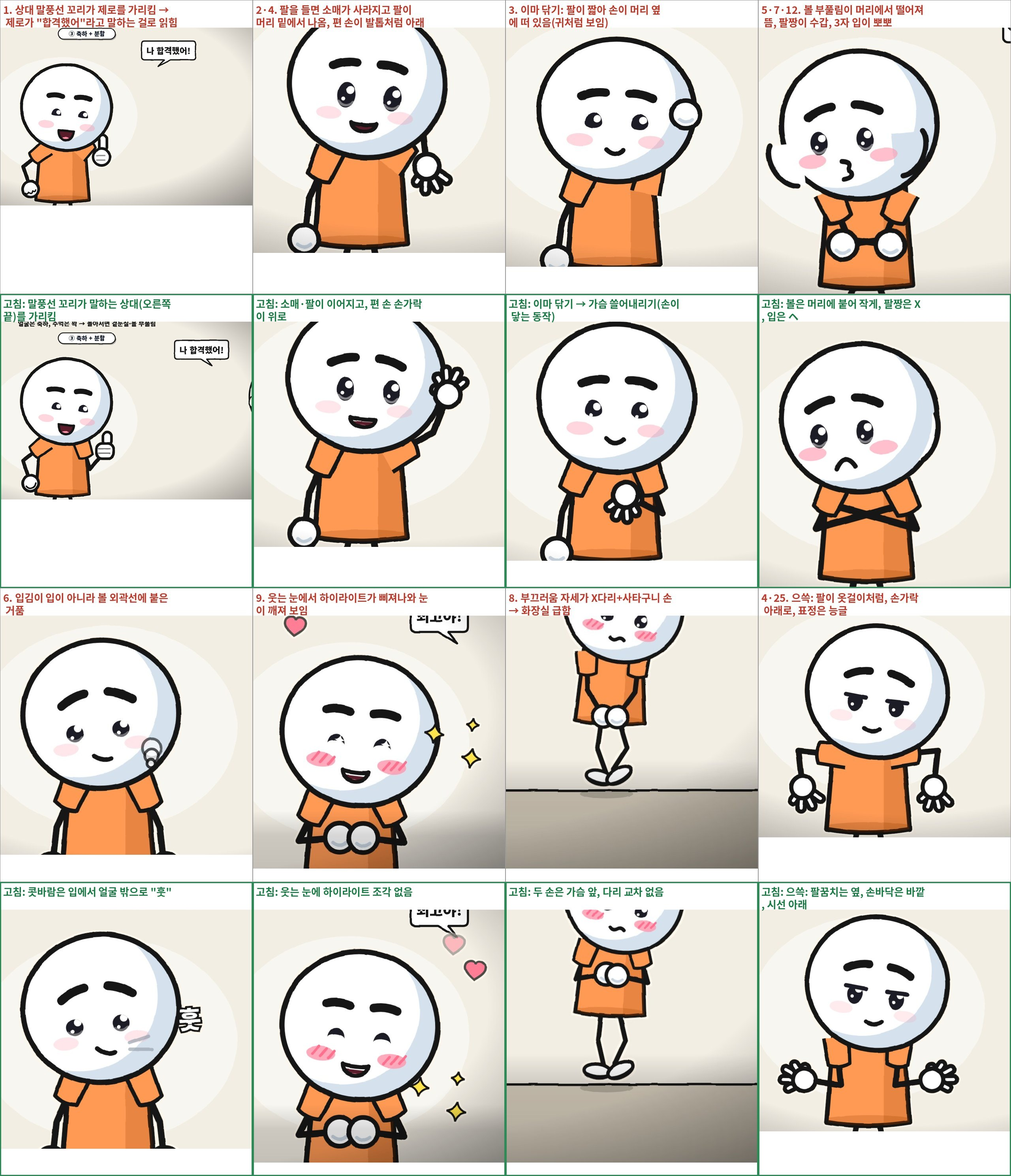
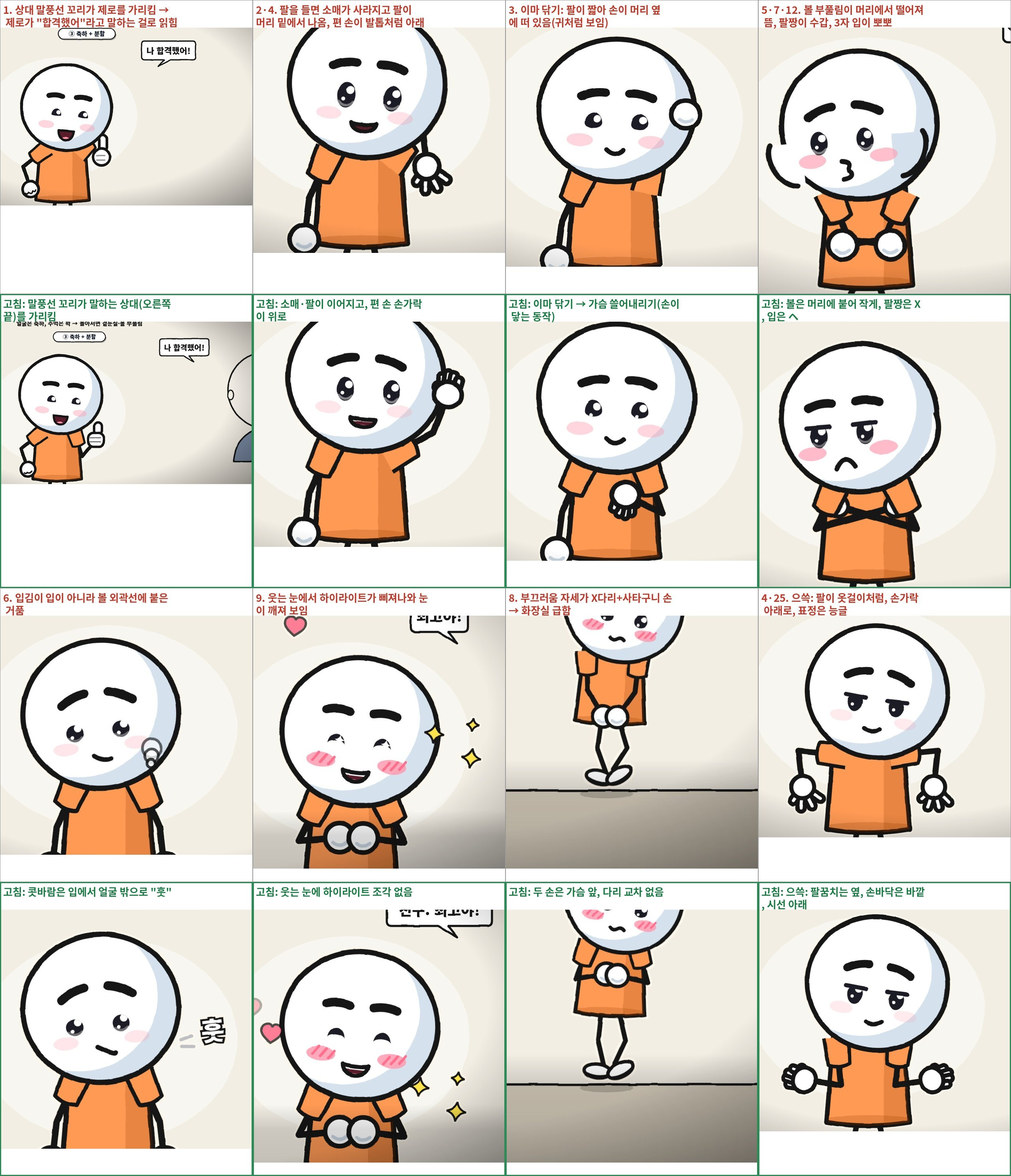
표정·연기 고침 v2: 32개 반영 + 독립 재검토 두 번(팔꿈치 바깥쪽 규칙·blend 굽힘 버그·생각하는 자세·편 손·팔짱 손·코웃음·눈물·집중선 빈 각도), 전후 비교
Claude-Session: https://claude.ai/code/session_01WWWAGrfkk8c3HdrCL88o6T

diff --git a/shorts/act2.js b/shorts/act2.js
@@ -71,7 +71,7 @@ ACT.mouth = (v, o, c = 2, id = 'm', x = {}) => { const [w0, T0, B0, k] = v, w = 
   if (x.style === 'pout') return wrap(`<path d="M186 ${f1(244 + wv * 2)} Q194 230 201 231 Q208 232 214 ${f1(243 - wv * 2)}" fill="none" stroke="${INK}" stroke-width="7" stroke-linecap="round" stroke-linejoin="round"/>`);
   if (x.style === 'kiss') return wrap(`<path d="M196 222 Q209 224 206 231 Q203 236 208 240 Q212 249 196 250" fill="none" stroke="${INK}" stroke-width="7" stroke-linecap="round" stroke-linejoin="round"/>`);
   if (B < 3.2) { if (wob > 0.02) return wrap(`<path d="M${f1(x0)} ${f1(yL)} Q${f1(200 - w / 2)} ${f1(y0 + 3 + cm * 0.9 + 5 * wv)} 200 ${f1(y0 + 2 + cm * 0.5)} Q${f1(200 + w / 2)} ${f1(y0 + 3 + cm * 0.9 - 5 * wv)} ${f1(x1)} ${f1(yR)}" fill="none" stroke="${INK}" stroke-width="7" stroke-linecap="round" stroke-linejoin="round"/>`);
-    return wrap(`<path d="M${f1(x0)} ${f1(yL)} Q200 ${f1(y0 + 5 + cm * 0.9)} ${f1(x1)} ${f1(yR)}" fill="none" stroke="${INK}" stroke-width="7" stroke-linecap="round"/>`); }
+    return wrap(`<path d="M${f1(x0)} ${f1(yL)} Q${f1(200 + (cL - cR) * 1.2)} ${f1(y0 + 5 + cm * 0.9)} ${f1(x1)} ${f1(yR)}" fill="none" stroke="${INK}" stroke-width="7" stroke-linecap="round"/>`); }
   const hT = T * 4 / 3, hB = (B + 3 * wv) * 4 / 3, d = `M${f1(x0)} ${f1(yL)} C${f1(200 - w * k)} ${f1(y0 - hT)} ${f1(200 + w * k)} ${f1(y0 - hT)} ${f1(x1)} ${f1(yR)} C${f1(200 + w * k)} ${f1(y0 + hB)} ${f1(200 - w * k)} ${f1(y0 + hB)} ${f1(x0)} ${f1(yL)} Z`;
   let g = `<clipPath id="${id}"><path d="${d}"/></clipPath><path d="${d}" fill="${MO2}"/><g clip-path="url(#${id})">`;
   if (B > 9) g += `<ellipse cx="200" cy="${f1(y0 + B * 0.95)}" rx="${f1(w * 0.62)}" ry="${f1(B * 0.42)}" fill="${TONG2}"/>`;
@@ -135,14 +135,14 @@ ACT.face = o => { const base = E[o.base || 'z기본'] || E['z기본'], br = ACT.
   const pf = o.puff ? ACT.cheekPuff(o.puff[0], o.puff[1], o.turn || 0) : '', kn = (o.brow && o.brow.knit) || 0;
   const wr = ''; // 미간 주름 선은 얼룩처럼 보여 뺐다(눈썹 모양만으로 찌푸림)
   const tdy = ACT.eyeBottom(o.eyes) + 3 - 210; // 눈물은 아래 눈꺼풀에서 시작
-  const tear = o.tear > 0.05 ? (t, lk) => `<g opacity="${f1(clamp(o.tear, 0, 1) * 100) / 100}" transform="translate(0 ${f1(tdy)})">${zTear(t, lk, -1, 0, 0.95)}${zTear(t, lk, 1, 0.45, 0.95)}</g>` : null;
+  const tear = o.tear > 0.05 ? (t, lk) => `<clipPath id="tc${o.id || 'a'}"><ellipse cx="200" cy="170" rx="116" ry="110"/></clipPath><g clip-path="url(#tc${o.id || 'a'})"><g opacity="${f1(clamp(o.tear, 0, 1) * 100) / 100}" transform="translate(0 ${f1(tdy)})">${zTear(t, lk, -1, 0, 0.95)}${zTear(t, lk, 1, 0.45, 0.95)}</g></g>` : null;
   return Object.assign({}, br, { eyeL: 'M0 0', eyeR: 'M0 0', eyeFill: 'none', eyeSW: 0, mouth: base.mouth, mouthFill: base.mouthFill,
     fxHead: (t, lk) => pf + (typeof o.hfx === 'function' ? o.hfx(t, lk) : (o.hfx || '')), fxUnder: fxU, fxEye: ACT.eyes(Object.assign({ id: o.id }, o.eyes || {})), fx: (t, lk) => wr + m + lines + (tear ? tear(t, lk) : '') + (typeof o.fx === 'function' ? o.fx(t, lk) : (o.fx || '')) }); };
 
 // ---------- 만화 기호(머리 좌표, 머리 중심 200,170 / 반지름 약 118) ----------
 // 등장: 튀어나와 커졌다 안착, 머무는 동안 살짝 흔들림, 끝: 작아지며 사라짐
 ACT.symK = (t, t0, t1) => { if (t < t0 || t > t1 + 0.18) return 0; const a = clamp((t - t0) / 0.28, 0, 1), inn = a < 1 ? easeOutBack(a) : 1, out = t > t1 ? 1 - (t - t1) / 0.18 : 1; return inn * out; };
-ACT.sym = (kind, x, y, t, t0, t1, s = 1) => { const k = ACT.symK(t, t0, t1); if (k <= 0.01) return ''; const wob = Math.sin((t - t0) * 9) * 6 * Math.exp(-(t - t0) * 2.5);
+ACT.sym = (kind, x, y, t, t0, t1, s = 1) => { const k = ACT.symK(t, t0, t1); if (k <= 0.01) return ''; const wob = kind === 'huff' || kind === 'hut' ? 0 : Math.sin((t - t0) * 9) * 6 * Math.exp(-(t - t0) * 2.5);
   let g = '';
   if (kind === '!') g = `<path d="M-9 -58 L9 -58 L5 2 L-5 2 Z" fill="#FF5A5F" stroke="${INK}" stroke-width="6" stroke-linejoin="round"/><circle cy="20" r="9" fill="#FF5A5F" stroke="${INK}" stroke-width="6"/>`;
   else if (kind === '?') g = `<text x="0" y="22" text-anchor="middle" font-family="${FONT}" font-weight="900" font-size="104" fill="#fff" stroke="${INK}" stroke-width="10" paint-order="stroke">?</text>`;
@@ -152,16 +152,17 @@ ACT.sym = (kind, x, y, t, t0, t1, s = 1) => { const k = ACT.symK(t, t0, t1); if 
   else if (kind === 'spark') g = [[-30, -10, 0], [26, -30, 1.7], [30, 20, 3.1]].map(([dx, dy, p]) => zStar(dx, dy, 15 * (0.55 + 0.45 * Math.abs(Math.sin((t - t0) * 6 + p))), '#FFE34D', 3)).join('');
   else if (kind === 'heart') g = [0, 1].map(i => { const ph = ((t - t0) * 0.9 + i * 0.5) % 1; return `<path d="${zHeartP(i * 30 - 15 + Math.sin(ph * 6) * 6, -ph * 70, 0.42)}" fill="#FF6B8B" stroke="${INK}" stroke-width="3.5" opacity="${f1((1 - ph * 0.8) * 100) / 100}"/>`; }).join('');
   else if (kind === 'dots') g = [0, 1, 2].map(i => { const kk = clamp(((t - t0) - i * 0.25) / 0.2, 0, 1); return kk > 0 ? `<circle cx="${(i - 1) * 26}" cy="${f1(-i * 12)}" r="${f1(8 * easeOutBack(kk))}" fill="#fff" stroke="${INK}" stroke-width="4"/>` : ''; }).join('');
-  else if (kind === 'burst') g = [...Array(10)].map((_, i) => { const a = i / 10 * Math.PI * 2; return `<line x1="${f1(Math.cos(a) * 128)}" y1="${f1(Math.sin(a) * 120)}" x2="${f1(Math.cos(a) * 158)}" y2="${f1(Math.sin(a) * 148)}" stroke="${INK}" stroke-width="7" stroke-linecap="round"/>`; }).join('');
+  else if (kind === 'burst') g = [...Array(10)].map((_, i) => { const a = i / 10 * Math.PI * 2; if (y > 0 && Math.abs(((a * 180 / Math.PI - x + 540) % 360) - 180) < y) return ''; return `<line x1="${f1(Math.cos(a) * 128)}" y1="${f1(Math.sin(a) * 120)}" x2="${f1(Math.cos(a) * 158)}" y2="${f1(Math.sin(a) * 148)}" stroke="${INK}" stroke-width="7" stroke-linecap="round"/>`; }).join('');
   else if (kind === 'gloom') g = `<g opacity=".75">${zGloom}</g>`;
   // 한숨: (x,y)=입 끝. 입김이 입에서 나와 얼굴 아래 바깥으로 빠져나간다(얼굴 위에서는 옅게). "후~" 글자
   else if (kind === 'sigh') { const u = clamp((t - t0) / Math.max(0.3, t1 - t0), 0, 1);
     g = [0, 1, 2].map(i => { const uu = clamp(u * 1.25 - i * 0.14, 0, 1); if (uu <= 0) return ''; const px = uu * 105, py = uu * 34 + uu * uu * 14, onFace = px < 55 ? 0.55 : 1;
       return `<circle cx="${f1(px)}" cy="${f1(py)}" r="${f1(5 + uu * 15 - i * 2)}" fill="#fff" stroke="#9AA4B0" stroke-width="3.5" opacity="${f1((1 - uu * 0.8) * onFace * 100) / 100}"/>`; }).join('') +
-      (u > 0.35 ? `<text x="${f1(96 + u * 20)}" y="${f1(46 + u * 10)}" font-family="${FONT}" font-weight="900" font-size="34" fill="#fff" stroke="${INK}" stroke-width="6" paint-order="stroke" opacity="${f1(Math.min(1, (u - 0.35) * 4) * (1 - u * 0.5) * 100) / 100}">후~</text>` : ''); }
+      (u > 0.15 ? `<text x="${f1(96 + u * 20)}" y="${f1(46 + u * 10)}" font-family="${FONT}" font-weight="900" font-size="34" fill="#fff" stroke="${INK}" stroke-width="6" paint-order="stroke" opacity="${f1(Math.min(1, (u - 0.15) * 5) * (1 - u * 0.4) * 100) / 100}">후~</text>` : ''); }
   // 코웃음: (x,y)=올라간 입꼬리. 짧은 콧바람 두 줄 + "흥"
-  else if (kind === 'huff' || kind === 'hut') { const u = clamp((t - t0) / 0.5, 0, 1); g = `<path d="M${f1(8 + u * 14)} -6 l${f1(22 + u * 14)} -8 M${f1(8 + u * 14)} 4 l${f1(26 + u * 14)} 2" stroke="#9AA4B0" stroke-width="5" stroke-linecap="round" opacity="${f1((1 - u * 0.6) * 100) / 100}"/>` +
-    `<text x="${f1((84 + u * 12) * (s < 0 ? -1 : 1))}" y="-22" font-family="${FONT}" font-weight="900" font-size="36" fill="#fff" stroke="${INK}" stroke-width="6" paint-order="stroke"${s < 0 ? ' transform="scale(-1 1)" text-anchor="end"' : ''}>${kind === 'hut' ? '훗' : '흥'}</text>`; }
+  else if (kind === 'huff' || kind === 'hut') { const u = clamp((t - t0) / 0.5, 0, 1), sx = s < 0 ? -1 : 1; // 글자만, 얼굴 밖에. 콧바람 선은 볼 위 흉터처럼 보여 뺐다
+    g = `<path d="M${f1(92 * sx)} -2 l${f1(16 * sx)} -4 M${f1(92 * sx)} 8 l${f1(18 * sx)} 2" stroke="#9AA4B0" stroke-width="5" stroke-linecap="round" opacity="${f1((1 - u * 0.6) * 100) / 100}"/>` +
+      `<text x="${f1((118 + u * 10) * sx)}" y="4" text-anchor="${s < 0 ? 'end' : 'start'}" font-family="${FONT}" font-weight="900" font-size="38" fill="#fff" stroke="${INK}" stroke-width="6" paint-order="stroke">${kind === 'hut' ? '훗' : '흥'}</text>`; }
   else if (kind === 'storm') { const z = Math.sin((t - t0) * 5) * 3; g = `<g transform="translate(${f1(z)} 0)"><circle cx="-26" cy="0" r="22" fill="#6B6B8F" stroke="${INK}" stroke-width="5"/><circle cx="2" cy="-12" r="27" fill="#6B6B8F" stroke="${INK}" stroke-width="5"/><circle cx="30" cy="2" r="20" fill="#6B6B8F" stroke="${INK}" stroke-width="5"/><rect x="-30" y="0" width="64" height="20" fill="#6B6B8F"/><path d="M-36 20 L40 20" stroke="${INK}" stroke-width="5" stroke-linecap="round"/>` +
     ((t - t0) % 0.9 < 0.25 ? `<path d="M2 22 L-8 42 L4 42 L-6 64" fill="none" stroke="#FFD43B" stroke-width="7" stroke-linecap="round" stroke-linejoin="round"/>` : '') + `</g>`; }
   else if (kind === 'memory') g = [[78, 62, 7], [60, 42, 10]].map(([dx, dy, r]) => `<circle cx="${dx}" cy="${dy}" r="${r}" fill="#FFF8E7" stroke="${INK}" stroke-width="4"/>`).join('') +
@@ -172,7 +173,7 @@ ACT.sym = (kind, x, y, t, t0, t1, s = 1) => { const k = ACT.symK(t, t0, t1); if 
   if (kind === 'gloom' || kind === 'burst') return `<g opacity="${f1(clamp(k, 0, 1) * 100) / 100}">${kind === 'burst' ? `<g transform="translate(200 170) scale(${f1((0.9 + 0.1 * k) * 100) / 100})">${g}</g>` : g}</g>`;
   const op = t > t1 ? clamp(1 - (t - t1) / 0.18, 0, 1) : 1; // 끝날 때 작아지면서 옅어진다(점처럼 남지 않게)
   // s < 0 이면 좌우를 뒤집는다(왼쪽을 보는 얼굴의 입김·콧바람)
-  return `<g transform="translate(${f1(x)} ${f1(y)}) rotate(${f1(wob)}) scale(${f1(k * (s < 0 ? -1 : 1) * 100) / 100} ${f1(k * 100) / 100})"${op < 1 ? ` opacity="${f1(op * 100) / 100}"` : ''}>${g}</g>`; };
+  return `<g transform="translate(${f1(x)} ${f1(y)}) rotate(${f1(wob)}) scale(${f1(k * (s < 0 && kind !== 'huff' && kind !== 'hut' ? -1 : 1) * 100) / 100} ${f1(k * 100) / 100})"${op < 1 ? ` opacity="${f1(op * 100) / 100}"` : ''}>${g}</g>`; };
 
 // ---------- 감정 몸짓(A2.pose 기반) ----------
 // 반환 { pose, rot, tilt, headDy, sx, sy, look, hop } — k(0~1)로 서기에서 섞어 들어간다

diff --git a/animlab/long/actscenes.js b/animlab/long/actscenes.js
@@ -30,13 +30,13 @@ function act1Scene(t, lt, a) {
   tr.forEach((s, i) => { if (s.first) { nod += ACT.pulse(t, s.a - 0.05, 0.28); bro += ACT.pulse(t, s.a - 0.07, 0.32); }
     if (s.q) { const nx = tr.slice(i + 1).find(z => z.first), qe = nx ? nx.a - 0.08 : 99; q = Math.max(q, A2.spring(t, s.a - 0.05, 1.7, 0.38) * (t < qe ? 1 : Math.exp(-(t - qe) * 5))); } });
   const LK = [[0, [0, 0.15]], [0.35, [0.62, 0.05]], [2.0, [0.15, 0.45]], [2.75, [0.64, 0.0]]], look = ACT.saccade(lt, LK, 0.06, 3);
-  const sp = ACT.pulse(lt, 0.5, 0.75), worry = clamp((lt - 3.6) / 0.4, 0, 1) * 0.45, after = lt > 4.95;
+  const sp = ACT.pulse(lt, 0.42, 0.7), worry = clamp((lt - 3.6) / 0.4, 0, 1) * 0.45, after = lt > 4.95;
   const bl = Math.max(ACT.blinks(lt, ACT.saccadeBlinks(LK, 0.5).concat([1.78, 3.62]), 0.17), ACT.blinks(lt, [5.45], 0.42));
   const mouth = lp.s ? { v: lp.v, o: lp.o, c: 1.5 } : { v: ACT.VIS.M, o: 0, c: after ? 3.5 : 2 };
   const st = A2.pose({}), g = A2.actK(lt, 2.8, 0.32, { anticAmt: 0.15 }) * (1 - A2.actK(lt, 4.4, 0.45, { antic: 0.05, anticAmt: 0, over: 0 }));
-  const pose = A2.blend(st, A2.pose({ hR: [322, 304] }), clamp(g, -0.2, 1.15), 0.3);
+  const pose = A2.blend(st, A2.pose({ hR: [306, 352], bend: { aR: 1 } }), clamp(g, -0.2, 1.15), 0.3);
   w += acZ('_a1R', { eyes: { open: 1 - bl, size: 1 + 0.24 * sp, squint: after ? 0.25 : 0.05 }, brow: { raise: bro * 4 + q * 9 + sp * 12, worry }, mouth: !lp.s && sp > 0.25 ? { v: ACT.VIS.O, o: 0.45 * sp } : mouth, blush: 0.4,
-    fx: tt => ACT.sym('?', 330, 30, lt, 5.05, 9) }, { x: AC.XR, y: AC.CY, s: AC.CS, t, pose, look, tilt: q * 8 - nod * 1.5, headDy: nod * 5, headSq: [1 - 0.03 * sp, 1 + 0.05 * sp], handR: g > 0.3 ? 'open' : null, handRotR: -55, turn: 0.25 });
+    fx: tt => ACT.sym('?', 330, 30, lt, 5.05, 9) }, { x: AC.XR, y: AC.CY, s: AC.CS, t, pose, look, tilt: q * 8 - nod * 1.5, headDy: nod * 5, headSq: [1 - 0.03 * sp, 1 + 0.05 * sp], handR: g > 0.3 ? 'open' : null, handRotR: -12, turn: 0.25 });
   return w;
 }
 
@@ -52,15 +52,15 @@ function act2Scene(t, lt, a) {
   const bl = Math.max(ACT.blinks(lt, ACT.saccadeBlinks(LK, 0.9), 0.17), squeeze, ACT.natBlink(lt, 4) * (lt > 3.9 ? 1 : 0));
   const tilt = A2.follow(tt => ACT.saccade(tt, LK, 0.06, 5)[0] * -7 * (tt > 0.7 && tt < idea ? 1 : 0), lt, 2.2, 0.4, 0.8, 18);
   const turn = A2.follow(tt => ACT.saccade(tt, LK, 0.06, 5)[0] * 0.55, lt, 2.6, 0.45, 0.8, 18);
-  // 생각하는 자세: 오른손은 턱, 왼손은 오른 팔꿈치를 받침
-  const st = A2.pose({}), chin = A2.pose({ hR: [226, 288], hL: [236, 374], dy: 3, reach: { R: 1.15 }, bend: { aR: -1 } }), up = A2.pose({ hR: [326, 214], hL: [150, 412], dy: 0, bend: { aR: 1 } });
+  // 생각하는 자세(🤔): 오른손은 턱, 오른 팔꿈치는 배 앞을 가로지른 왼팔 위에 얹는다
+  const st = A2.pose({}), chin = A2.pose({ hR: [226, 290], elbowR: [246, 372], hL: [258, 384], elbowL: [126, 360], dy: 3 }), up = A2.pose({ hR: [326, 214], hL: [150, 412], dy: 0, bend: { aR: 1 } });
   let pose = A2.blend(st, chin, th, 0.2);
   if (on) pose = A2.blend(chin, up, clamp(A2.actK(lt, idea + 0.02, 0.22, { antic: 0.06, anticAmt: 0.15, over: 0.12 }), -0.2, 1.15), 0.3);
-  else if (squeeze > 0) pose = A2.pose({ hR: [226, 288], hL: [236, 374], dy: 3 + 8 * squeeze, reach: { R: 1.15 }, bend: { aR: -1 } });
+  else if (squeeze > 0) pose = A2.pose({ hR: [226, 290], elbowR: [246, 372], hL: [258, 384], elbowL: [126, 360], dy: 3 + 8 * squeeze });
   const mouth = on ? (lt < idea + 0.3 ? { v: ACT.VIS.O, o: 0.95, c: 0 } : { v: ACT.VIS.E, o: 0.55, c: 5 }) : { v: ACT.VIS.U, o: 0.42 * th, c: -1 };
   w += acZ('_a2R', { eyes: { squeeze: squeeze > 0.35 ? 1 : 0, open: 1 - bl, size: 1 + 0.13 * p, squint: on ? 0.1 : 0.25 * th + 0.6 * squeeze, sparkle: on ? clamp(p, 0, 1) * (0.35 + 0.65 * Math.exp(-(lt - idea) * 2)) : 0 },
     brow: { raise: on ? 12 * p : 0, asymL: 7 * th, asymR: -4 * th, angry: 0.18 * th + 0.5 * squeeze }, mouth, blush: on ? 0.6 : 0.35,
-    fx: tt => ACT.sym('dots', 300, 18, lt, 1.0, idea - 0.15) + ACT.sym('bulb', 330, 44, lt, idea + 0.05, 99), hfx: tt => ACT.sym('burst', 0, 0, lt, idea, idea + 0.35) },
+    fx: tt => ACT.sym('dots', 300, 18, lt, 1.0, idea - 0.15) + ACT.sym('bulb', 330, 44, lt, idea + 0.05, 99), hfx: tt => ACT.sym('burst', 10, 40, lt, idea, idea + 0.35) },
     { x: AC.XR, y: AC.CY, s: AC.CS, t, pose, look, tilt: tilt - 3 * th, turn, headDy: 5 * squeeze - 4 * pu, headSq: [1 - 0.05 * pu, 1 + 0.08 * pu], handR: on ? 'point' : (th > 0.4 ? 'fist' : null), handRotR: on ? -90 : null, armFront: !on && th > 0.4 ? 'R' : null });
   return w;
 }
@@ -68,7 +68,7 @@ function act2Scene(t, lt, a) {
 /* 3. 표정 전환: 칭찬받았을 때 */
 function act3Scene(t, lt, a) {
   let w = acBg('칭찬받았을 때 — 눈썹 → 웃는 눈 → 입꼬리 → 입 → 볼 순서로 번진다');
-  w += acBubble(AC.XL + 300, 290, '최고야!', lt, 0.6, 99, 1) + acBubble(AC.XR + 300, 290, '최고야!', lt, 0.6, 99, 1);
+  w += acBubble(AC.XL + 300, 290, '친구: 최고야!', lt, 0.6, 99, 1) + acBubble(AC.XR + 300, 290, '친구: 최고야!', lt, 0.6, 99, 1);
   w += Z({ x: AC.XL, y: AC.CY, s: AC.CS, t, ex: exprAt([[0, 'z기본'], [1.0, 'z빵긋']], lt), look: lt > 0.65 ? [0.6, -0.3] : [0, 0] });
   const LK = [[0, [0, 0.1]], [0.65, [0.7, -0.35]], [1.45, [0.15, -0.05]]], look = ACT.saccade(lt, LK, 0.06, 7);
   const bl = Math.max(ACT.blinks(lt, [0.76, 0.98], 0.15), lt > 3.9 && lt < 4.8 ? 1 : 0, ACT.blinkK(lt, 4.8, 0.25) * 0 + (lt > 4.8 && lt < 4.95 ? 1 - prog(lt, 4.8, 4.95) : 0));
@@ -95,7 +95,7 @@ function act4Scene(t, lt, a) {
   // 오른쪽
   const hum = lt < 1.5, LK = [[0, [0, 0]], [0.95, [0.85, 0.05]], [1.15, [0, -0.1]], [tp, [1, 0]], [3.3, [0.05, 0.1]]], look = ACT.saccade(lt, LK, lt > tp - 0.05 && lt < tp + 0.2 ? 0.03 : 0.07, 9);
   const closed = (lt < 0.85 || (lt > 1.25 && lt < 1.5)) ? 1 : 0, beat = lt >= 1.5 && lt < tp;
-  const p = ACT.pop(lt, tp, 2.6, 0.3), pu = ACT.pulse(lt, tp, 0.4);
+  const p = ACT.pop(lt, tp, 2.6, 0.3), pu = ACT.pulse(lt, tp, 0.26);
   const crouch = lt > tp - 0.14 && lt < tp ? Math.sin(prog(lt, tp - 0.14, tp) * Math.PI / 2) : 0, air = lt >= tp && lt < tp + 0.38, u = prog(lt, tp, tp + 0.38);
   const yJ = air ? Math.sin(u * Math.PI) * 60 : 0, [qx, qy] = A2.squash(lt, tp + 0.38, 0.16, 0.3);
   const sx = qx * (air ? 1 / Math.sqrt(1 + 0.1 * Math.sin(u * Math.PI)) : 1), sy = qy * (air ? 1 + 0.1 * Math.sin(u * Math.PI) : 1);
@@ -105,11 +105,11 @@ function act4Scene(t, lt, a) {
   const turn = lerp(0, 0.9, A2.spring(lt, tp, 2.8, 0.4)) * (1 - A2.spring(lt, 3.3, 1.8, 0.6));
   const sway = hum ? Math.sin(lt * 3.2) : 0, shiver = lt > 2.4 && lt < 3.1;
   const eyesO = { open: closed ? 0 : 1 - ACT.blinks(lt, [3.25], 0.17), squint: closed ? 0.7 : (lt < 1.5 ? 0.35 : 0), size: lt >= tp ? 1 + 0.3 * p - 0.18 * clamp((lt - 2.4) / 0.6, 0, 1) : (beat ? 1.2 : 1) };
-  const mouth = hum ? { v: ACT.VIS.U, o: 0.45, c: 1 } : beat ? { v: ACT.VIS.M, o: 0, c: 0 } : lt < 2.4 ? { v: ACT.VIS.A, o: 1, c: -3 } : lt < 3.3 ? null : { v: ACT.VIS.E, o: 0.45, c: [-1, 2.5], wob: 0.3 };
+  const mouth = hum ? { v: ACT.VIS.U, o: 0.45, c: 1 } : beat ? null : lt < 2.4 ? { v: ACT.VIS.A, o: 1, c: -3 } : lt < 3.3 ? null : { v: ACT.VIS.E, o: 0.45, c: [-1, 2.5], wob: 0.3 };
   w += acShadow(AC.XR, yl, 70 * (1 - yJ / 300)) + `<g transform="translate(${AC.XR} ${yl}) scale(${f1(sx * 1000) / 1000} ${f1(sy * 1000) / 1000}) translate(${-AC.XR} ${-yl})">` +
-    acZ('_a4R', { base: lt >= 2.4 ? 'z당황' : 'z기본', eyes: eyesO, brow: { raise: beat ? 9 : lt >= tp ? 10 * p * (lt < 2.4 ? 1 : 0.4) : 0, worry: lt >= 3.3 ? 0.6 : lt >= 2.4 ? 0.9 : 0 }, mouth, blush: lt >= 2.4 ? 0.2 : 0.4,
+    acZ('_a4R', { mouthPath: beat ? 'M188 238 L212 238' : null, base: lt >= 2.4 ? 'z당황' : 'z기본', eyes: eyesO, brow: { raise: beat ? 9 : lt >= tp ? 10 * p * (lt < 2.4 ? 1 : 0.4) : 0, worry: lt >= 3.3 ? 0.6 : lt >= 2.4 ? 0.9 : 0 }, mouth, blush: lt >= 2.4 ? 0.2 : 0.4,
       fx: tt => ACT.sym('note', 330, 40, lt, 0.1, 1.45), hfx: tt => ACT.sym('!', 338, 70, lt, tp + 0.02, 3.1) + ACT.sym('burst', 0, 0, lt, tp, tp + 0.4) + ACT.sym('sweat', 280, 100, lt, 2.35, 99) },
-      { x: AC.XR, y: yl - yJ, s: AC.FS, t, pose, look, rot: sway * 3, tilt: sway * 5 + (lt >= tp && lt < 2.4 ? -4 : 0), turn, headSq: [1 - 0.08 * pu, 1 + 0.14 * pu], headDy: crouch * 6, shiver, handL: null, handR: null }) + `</g>`;
+      { x: AC.XR, y: yl - yJ, s: AC.FS, t, pose, look, rot: sway * 3, tilt: sway * 5 + (lt >= tp && lt < 2.4 ? -4 : 0), turn, headSq: [1 - 0.05 * pu, 1 + 0.08 * pu], headDy: crouch * 6, shiver, handL: null, handR: null }) + `</g>`;
   if (lt > tp + 0.38 && lt < tp + 0.75) w += puff(AC.XR, yl, t, t - lt + tp + 0.38, 0.8);
   return w;
 }

diff --git a/animlab/long/cxscenes.js b/animlab/long/cxscenes.js
@@ -46,7 +46,7 @@ function cx2Scene(t, lt) {
   const sm = easeInOut(prog(lt, 0.9, 1.45)), hu = ACT.pulse(lt, 1.75, 0.35);
   const bl = Math.max(ACT.blinks(lt, ACT.saccadeBlinks(LK, 0.5), 0.17), ACT.blinks(lt, [2.55], 0.45));
   w += cxZ('_c2', { t: lt, eyes: { open: (0.9 - 0.08 * sm) * (1 - bl), squint: 0.18 * sm, wet: 0.35 * sm }, brow: { worry: lerp(0.2, 0.85, easeInOut(prog(lt, 0.6, 1.2))) },
-    mouth: { v: ACT.VIS.M, o: 0, c: [lerp(1, 6, sm), lerp(1, -2.5, sm)], dx: 5 * sm }, blush: 0.3,
+    mouth: { v: ACT.VIS.M, o: 0, c: [lerp(1, 8, sm), lerp(1, -3, sm)], dx: 6 * sm }, blush: 0.3,
     fx: tt => ACT.sym('hut', 226, 232, lt, 1.75, 2.5) },
     { t, look, tilt: -6 * sm, headDy: 5 * hu, turn: -0.15 * sm });
   return w;
@@ -59,7 +59,7 @@ function cx3Scene(t, lt) {
   const LK = [[0, [0, 0.1]], [0.5, [0.75, -0.1]], [2.15, [0.98, 0.12]]], look = ACT.saccade(lt, LK, 0.06, 23);
   const sh = Math.sin(lt * 42) * 3 * (lt > 0.9 ? 1 : 0), turn = after ? 0.35 * dk : 0.2;
   const pose = A2.pose({ hL: lt > 0.9 ? [118 + sh, 384] : [150, 412], hR: cg ? [312, 300] : after ? [282 + sh, 384] : [252, 412] });
-  const face = after ? { turn, eyes: { flat: 0.45 * dk, size: 0.97, open: 1 - ACT.blinks(lt, [3.4], 0.2) }, brow: { angry: 0.38 * dk, knit: 0.45 * dk }, puff: [0.85 * pf, 0.85 * pf], mouth: { style: 'pout', dx: -4 }, blush: 0.55 }
+  const face = after ? { turn, eyes: { flat: 0.45 * dk, size: 0.97, open: 1 - ACT.blinks(lt, [3.4], 0.2) }, brow: { angry: 0.38 * dk, knit: 0.45 * dk }, puff: [0.6 * pf, 0.6 * pf], mouth: { style: 'pout', dx: -4 }, blush: 0.55 }
     : { eyes: { squint: cg ? 0.55 : 0, open: 1 - ACT.blinks(lt, [0.48], 0.15) }, brow: { raise: cg ? 5 : 0 }, mouth: cg ? { v: ACT.VIS.A, o: 0.7, c: 5 } : { v: ACT.VIS.M, o: 0, c: 2 }, blush: 0.5 };
   w += cxZ('_c3', Object.assign({ t: lt, fx: tt => ACT.sym('vein', 266, 98, lt, 1.3, 2.1), hfx: tt => ACT.sym('storm', 352, 74, lt, 2.5, 99) }, face),
     { t, pose, look, handL: lt > 0.9 ? 'fist' : null, handR: cg ? 'thumb' : (after ? 'fist' : null), tilt: cg ? 5 : -3 * dk, turn });
@@ -72,11 +72,11 @@ function cx4Scene(t, lt) {
   const away = lt >= 0.95, fl = ACT.pulse(lt, 0.5, 0.45);
   // 고개: 돌림(-0.85) → 흘끗할 때 반쯤 돌아옴(-0.4) → "흥" 하고 더 크게 돌림(-1)
   const tk = away ? A2.spring(lt, 0.95, 2.4, 0.45) : 0, pk1 = clamp((lt - 1.9) / 0.08, 0, 1) * (1 - clamp((lt - 2.25) / 0.08, 0, 1)), pk2 = clamp((lt - 3.1) / 0.08, 0, 1) * (1 - clamp((lt - 3.32) / 0.08, 0, 1));
-  const toss = lt > 2.25 ? A2.spring(lt, 2.25, 3, 0.4) : 0, turn = -0.85 * tk + 0.45 * Math.max(pk1, pk2 * 0.7) - 0.15 * toss;
+  const toss = lt > 2.25 ? A2.spring(lt, 2.25, 3, 0.4) : 0, turn = -0.85 * tk + 0.55 * Math.max(pk1, pk2 * 0.8) - 0.15 * toss;
   const LK = [[0, [0.6, -0.1]], [0.95, [-1, 0.45]], [1.9, [0.85, 0.02]], [2.25, [-1, 0.45]], [3.1, [0.8, 0]], [3.32, [-1, 0.45]]], look = ACT.saccade(lt, LK, 0.05, 24);
   const tossP = ACT.pulse(lt, 2.28, 0.32), pf = away ? 0.6 + 0.3 * clamp((lt - 2.28) / 0.2, 0, 1) : 0;
   const face = lt < 0.95 ? { eyes: { size: 1 + 0.24 * fl, open: 1 - ACT.blinks(lt, [0.75], 0.17) }, brow: { raise: 10 * fl, worry: 0.5 * clamp((lt - 0.6) / 0.3, 0, 1) }, mouth: { v: ACT.VIS.M, o: 0, c: -2, wob: 0.4 }, blush: 0.45 }
-    : { turn, eyes: { open: 1 - ACT.blinks(lt, [2.27, 3.33], 0.15), wet: 0.45, size: 1 + 0.15 * Math.max(pk1, pk2) }, brow: { worry: 0.7 }, puff: [pf * 0.7, pf * 0.7], mouth: { style: 'pout', dx: -6 }, blush: 0.75,
+    : { turn, eyes: { open: 1 - ACT.blinks(lt, [2.27, 3.33], 0.15), wet: 0.35, flat: 0.25 * (1 - Math.max(pk1, pk2)), size: 1 + 0.15 * Math.max(pk1, pk2) }, brow: { worry: 0.45, angry: 0.25 }, puff: [pf * 0.8, pf * 0.8], mouth: { style: 'pout', dx: -6 }, blush: 0.8,
         fx: tt => ACT.sym('huff', 186, 238, lt, 2.27, 2.9, -1) };
   w += cxZ('_c4', Object.assign({ t: lt }, face), { t, pose: cxSt(), crossArms: lt > 1.05, look, turn, tilt: -5 * tk - 12 * tossP, headDy: -6 * fl - 3 * tossP });
   return w;
@@ -85,7 +85,7 @@ function cx4Scene(t, lt) {
 /* 5. 망설임: 하고 싶음 + 두려움 */
 function cx5Scene(t, lt) {
   let w = cxBg('망설임', '손이 나갔다 들어오기 두 번 · 입술 깨물기 · 시선이 왔다 갔다', lt);
-  const KR = [[0, 0], [0.5, 0], [0.95, 0.82], [1.12, 0.82], [1.4, 0.1], [1.8, 0.1], [2.3, 0.97], [2.6, 0.95], [3.0, 0], [9, 0]];
+  const KR = [[0, 0], [0.5, 0], [0.95, 0.6], [1.12, 0.6], [1.4, 0.1], [1.8, 0.1], [2.3, 0.97], [2.6, 0.95], [3.0, 0], [9, 0]];
   let i = 0; while (i + 1 < KR.length && lt >= KR[i + 1][0]) i++; const [ta, va] = KR[i], [tb, vb] = KR[i + 1], rk = lerp(va, vb, easeInOut(clamp((lt - ta) / (tb - ta), 0, 1)));
   const hover = lt > 2.3 && lt < 2.6 ? Math.sin(lt * 38) * 5 : 0, down = easeInOut(prog(lt, 3.3, 3.8));
   // 폰은 왼손, 전송 버튼은 손 위 34px. 검지 끝(손 중심에서 왼쪽 56px)은 버튼 오른쪽 끝 바로 앞에서 멈춘다(누르지 않음)
@@ -138,7 +138,7 @@ function cx8Scene(t, lt) {
   const hk = clamp(A2.actK(lt, 1.2, 0.35, { anticAmt: 0.08 }), 0, 1.1);
   const mouth = lt > 0.5 && lt < 0.85 ? { v: ACT.VIS.O, o: 0.4 } : sm > 0.05 ? { v: ACT.VIS.E, o: 0.32 * sm, c: lerp(0, 4, sm), wob: lerp(1, 0.5, sm) * wob } : { v: ACT.VIS.M, o: 0, c: 0, wob };
   w += cxZ('_c8', { t: lt, eyes: { size: 1 + 0.24 * pk + 0.04 * wet, wet: wet, squint: 0.55 * sm, open: 1 - ACT.blinks(lt, [1.15], 0.2) }, brow: { raise: 10 * pk, worry: 0.75 * clamp((lt - 0.8) / 0.3, 0, 1) },
-    mouth, tear, blush: lerp(0.45, 0.85, sm), fx: tt => ACT.sym('heart', 330, 40, lt, 2.6, 99) },
+    mouth, tear, blush: lerp(0.45, 0.85, sm), fx: tt => ACT.sym('heart', 352, 150, lt, 2.6, 99) },
     { t, pose: A2.blend(cxSt(), A2.pose({ hR: [212, 318] }), hk, 0.2), look, headDy: 4 * sob - 5 * pk, tilt: 4 * sm });
   return w;
 }
@@ -160,9 +160,9 @@ function cx10Scene(t, lt) {
   let w = cxBg('어이없음', '무표정으로 멈춤 · 느린 깜빡 두 번 · 눈썹 씰룩 · 코웃음', lt) + cxPartner(lt, 0.1) + cxSay('그거 내가 다 했어~', lt, 0.3, 1.6);
   const dead = lt >= 0.5, tw = ACT.pulse(lt, 2.2, 0.3) + 0.6 * ACT.pulse(lt, 2.45, 0.25), hm = lt >= 2.62;
   const look = ACT.saccade(lt, [[0, [0.3, 0]], [0.5, [0.72, -0.05]], [2.9, [0.03, 0.02]]], 0.06, 30);
-  w += cxZ('_c10', { t: lt, eyes: { flat: dead ? 0.45 : 0, hl: !dead, open: 1 - ACT.blinks(lt, [1.0, 1.75], 0.42) }, brow: { asymR: 13 * tw },
+  w += cxZ('_c10', { t: lt, eyes: { flat: dead ? 0.45 : 0, hl: !dead, open: 1 - ACT.blinks(lt, [1.0, 1.75], 0.42) }, brow: { asymR: 16 * tw },
     mouth: dead && !hm ? null : { v: ACT.VIS.M, o: 0, c: hm ? [4.5, -1.5] : 0, dx: hm ? 5 : 0 }, mouthPath: 'M184 238 L216 238', blush: 0.2,
-    fx: tt => ACT.sym('dots', 300, 22, lt, 1.2, 2.2) + ACT.sym('huff', 224, 230, lt, 2.62, 3.5) },
+    fx: tt => ACT.sym('dots', 318, 92, lt, 1.2, 2.2) + ACT.sym('huff', 224, 230, lt, 2.62, 3.5) },
     { t, look, headDy: -4 * ACT.pulse(lt, 2.62, 0.3), tilt: 5 * tw });
   return w;
 }

diff --git a/shorts/engine.js b/shorts/engine.js
@@ -104,12 +104,13 @@ function handShape(kind, q, ang, side) {
   // 실루엣만 봐도 무슨 손인지 알게: 검지는 가늘고 길게(+접힌 손가락 마디), 엄지 척은 가로 주먹 위 굵고 짧은 엄지, 편 손은 짧고 굵은 손가락 넷 + 엄지
   const [x, y] = q.map(f1), S = `stroke="${INK}"`, W = `fill="#fff" ${S} stroke-width="7"`;
   const R = (inner, a = ang) => `<g transform="translate(${x} ${y}) rotate(${f1(a)})">${inner}</g>`;
-  if (kind === 'fist') return R(`<circle r="21" ${W}/><path d="M4 -13 Q14 -9 13 0 Q14 9 4 13" fill="none" ${S} stroke-width="4" stroke-linecap="round"/>`);
+  if (kind === 'fist') return R(`<circle r="21" ${W}/><path d="M9 -9 Q14 -3 10 3 M8 5 Q12 9 7 13" fill="none" ${S} stroke-width="4" stroke-linecap="round"/>`);
   if (kind === 'grip') return R(`<circle r="20" ${W}/><path d="M7 -12 Q15 0 7 12" fill="none" ${S} stroke-width="4" stroke-linecap="round"/>`);
   if (kind === 'point') return R(`<rect x="8" y="-6.5" width="48" height="13" rx="6.5" ${W} stroke-width="6"/><circle r="19" ${W}/><path d="M2 3 Q10 6 14 12 M-2 10 Q6 13 9 18" fill="none" ${S} stroke-width="3.5" stroke-linecap="round"/>`);
   if (kind === 'thumb') return `<g transform="translate(${x} ${y})"><rect x="-6" y="-50" width="22" height="34" rx="11" ${W}/><rect x="-24" y="-20" width="46" height="40" rx="16" ${W}/><path d="M-18 -6 h30 M-18 6 h30" ${S} stroke-width="3.5" stroke-linecap="round" opacity=".55"/></g>`;
-  if (kind === 'open') { let f = ''; for (const a of [-42, -14, 14, 42]) f += `<g transform="rotate(${a})"><rect x="12" y="-6" width="${Math.abs(a) > 40 ? 24 : 30}" height="12" rx="6" ${W} stroke-width="5.5"/></g>`;
-    f += `<g transform="rotate(${-78 * side})"><rect x="9" y="-7" width="18" height="14" rx="7" ${W} stroke-width="6"/></g>`; return R(f + `<circle r="19" ${W}/>`); }
+  if (kind === 'open') { // 편 손: 손가락 넷이 나란히(살짝 부채꼴) + 옆으로 엄지. 둥글게 둘러 붙이면 꽃처럼 보인다
+    let f = ''; [[-10.5, 21, -7], [-3.5, 26, -2], [3.5, 25, 2], [10.5, 20, 7]].forEach(([dy, L, a]) => { f += `<g transform="rotate(${a}) translate(0 ${dy})"><rect x="10" y="-5.5" width="${L}" height="11" rx="5.5" ${W} stroke-width="5"/></g>`; });
+    f += `<g transform="rotate(${-62 * side})"><rect x="8" y="-6" width="18" height="12" rx="6" ${W} stroke-width="5"/></g>`; return R(f + `<ellipse rx="19" ry="21" ${W}/>`); }
   return `<circle cx="${x}" cy="${y}" r="22" ${W}/>`;
 }
 function char(o) {
@@ -161,9 +162,9 @@ function char(o) {
     h += `<line x1="200" y1="256" x2="200" y2="416" stroke="${INK}" stroke-width="4"/>`;
     h += `<rect x="148" y="298" width="40" height="26" rx="5" fill="#1F2D44"/><text x="168" y="318" text-anchor="middle" font-family="${FONT}" font-weight="900" font-size="18" fill="${MINT}">00</text>`;
   }
-  if (o.crossArms) { // 팔짱(막대 인물 방식): 팔꿈치는 몸 옆으로 나오고 앞팔 두 개가 가슴 앞에서 X로 겹친다. 손끝은 반대쪽 겨드랑이 밑으로 숨김
-    const ln = q => `<polyline points="${q.map(v => v.join(',')).join(' ')}" fill="none" stroke="${INK}" stroke-width="${11 * lw}" stroke-linecap="round" stroke-linejoin="round"/>`;
-    h += ln([[148, 285], [124, 338], [246, 304]]) + ln([[252, 285], [276, 338], [154, 304]]);
+  if (o.crossArms) { // 팔짱(막대 인물 방식): 앞팔 두 개가 가슴 앞에서 X로 겹치고, 손끝은 반대쪽 위팔 쪽에 살짝 보인다
+    const ln = q => `<polyline points="${q.map(v => v.join(',')).join(' ')}" fill="none" stroke="${INK}" stroke-width="${11 * lw}" stroke-linecap="round" stroke-linejoin="round"/>`, hd = (x, y) => `<circle cx="${x}" cy="${y}" r="16" fill="#fff" stroke="${INK}" stroke-width="6"/>`;
+    h += ln([[124, 338], [240, 306]]) + ln([[276, 338], [160, 306]]) + hd(244, 304) + hd(156, 304) + ln([[148, 285], [124, 338]]) + ln([[252, 285], [276, 338]]);
     p = Object.assign({}, p, { armL: [[148, 285], [124, 338], [114, 338]], armR: [[252, 285], [276, 338], [286, 338]] }); }
   else h += `<g stroke="${INK}" stroke-width="${10 * lw}" stroke-linecap="round" stroke-linejoin="round" fill="none"><polyline points="${p.armL.map(q => q.map(f1).join(',')).join(' ')}"/><polyline points="${p.armR.map(q => q.map(f1).join(',')).join(' ')}"/></g>`;
   if (o.tee) { // short t-shirt sleeves over the arm roots

diff --git a/shorts/anim2.js b/shorts/anim2.js
@@ -23,23 +23,27 @@ A2.pose = o => {
   const st = P['서기'], hL = o.hL || st.hL, hR = o.hR || st.hR, fL = o.fL || st.fL, fR = o.fR || st.fR;
   // 발은 땅에 그대로(dy로 몸 전체가 내려가도 발은 같은 자리): local 발 목표에서 dy를 뺀다
   const ankle = (f, side) => [f[0] - side * 12, f[1] - 12 - (keep ? dy : 0)];
-  // 팔꿈치 방향: bend를 안 주면 두 해 중 머리(200,170)에서 더 먼 쪽 — 팔을 들어도 팔꿈치가 머리 뒤로 숨지 않는다
+  // 팔꿈치 방향: bend를 안 주면 몸 바깥쪽(머리 뒤에 숨으면 반대쪽) — 팔을 들어도 팔꿈치가 머리 뒤로 숨지 않는다
   // o.reach = {L:1.35} 처럼 주면 그 팔만 길어진다(손을 얼굴에 가져가는 동작 전용, 만화식 늘이기)
   const rk = o.reach || {}, ob = o.bend || {}, vis = q => ((q[0] - 200) / 130) ** 2 + ((q[1] - 170) / 125) ** 2;
   const arm = (side, tgt) => { const sh = A2.SH[side], k = rk[side] || 1, L1 = A2.ARM[0] * k, L2 = A2.ARM[1] * k, key = 'a' + side;
     if (ob[key] != null) return A2.ik(sh, tgt, L1, L2, ob[key]);
-    const p1 = A2.ik(sh, tgt, L1, L2, 1), p2 = A2.ik(sh, tgt, L1, L2, -1), d = side === 'L' ? 1 : -1;
-    const pick = Math.abs(vis(p1[1]) - vis(p2[1])) < 0.05 ? (d > 0 ? p1 : p2) : (vis(p1[1]) > vis(p2[1]) ? p1 : p2); return pick; };
+    if (o['elbow' + side]) return [sh, o['elbow' + side], tgt]; // 팔꿈치 위치를 직접(생각하는 자세처럼 IK로 안 나오는 모양)
+    // 팔꿈치는 몸 바깥쪽이 기본. 바깥쪽 팔꿈치가 머리 뒤에 숨으면(vis<1.05) 다른 쪽
+    const p1 = A2.ik(sh, tgt, L1, L2, 1), p2 = A2.ik(sh, tgt, L1, L2, -1), sd = side === 'L' ? -1 : 1, out = q => (q[1][0] - 200) * sd;
+    let a = out(p1) >= out(p2) ? p1 : p2, b2 = a === p1 ? p2 : p1; if (vis(a[1]) < 1.05 && vis(b2[1]) > vis(a[1])) a = b2; return a; };
   const armL = arm('L', hL), armR = arm('R', hR);
   const legL = A2.ik(A2.HIP.L, ankle(fL, -1), A2.LEG[0], A2.LEG[1], b.lL), legR = A2.ik(A2.HIP.R, ankle(fR, 1), A2.LEG[0], A2.LEG[1], b.lR);
-  return { armL, armR, legL, legR, hL: armL[2], hR: armR[2], fL: [legL[2][0] - 12, legL[2][1] + 12, fL[2] || 0], fR: [legR[2][0] + 12, legR[2][1] + 12, fR[2] || 0], dy, bend: o.bend };
+  return { armL, armR, legL, legR, hL: armL[2], hR: armR[2], fL: [legL[2][0] - 12, legL[2][1] + 12, fL[2] || 0], fR: [legR[2][0] + 12, legR[2][1] + 12, fR[2] || 0], dy, bend: o.bend, elbowL: o.elbowL, elbowR: o.elbowR };
 };
 // 두 포즈 사이를 '손 위치'로 섞고, 손은 직선 대신 바깥으로 휘는 길(arc)로 움직인다
 A2.blend = (a, b, k, arc = 0.25) => {
   const m = (p, q, side) => { const x = lerp(p[0], q[0], k), y = lerp(p[1], q[1], k), d = Math.hypot(q[0] - p[0], q[1] - p[1]), bulge = Math.sin(k * Math.PI) * d * arc;
     const nx = -(q[1] - p[1]) / (d || 1), ny = (q[0] - p[0]) / (d || 1), s = (nx * side < 0 ? -1 : 1); return [x + nx * bulge * s, y + ny * bulge * s]; };
   const f = (p, q) => [lerp(p[0], q[0], k), lerp(p[1], q[1], k), lerp(p[2] || 0, q[2] || 0, k)];
-  return A2.pose({ hL: m(a.hL, b.hL, -1), hR: m(a.hR, b.hR, 1), fL: f(a.fL, b.fL), fR: f(a.fR, b.fR), dy: lerp(a.dy || 0, b.dy || 0, k), bend: k < 0.5 ? (a.bend || b.bend) : (b.bend || a.bend) });
+  // 팔꿈치를 직접 정한 포즈(elbowL/R)가 끼면 팔꿈치 위치도 같이 섞는다
+  const eb = side => { const A = a['elbow' + side], B = b['elbow' + side]; if (!A && !B) return undefined; const pa = A || a['arm' + side][1], pb = B || b['arm' + side][1]; return [lerp(pa[0], pb[0], k), lerp(pa[1], pb[1], k)]; };
+  return A2.pose({ hL: m(a.hL, b.hL, -1), hR: m(a.hR, b.hR, 1), fL: f(a.fL, b.fL), fR: f(a.fR, b.fR), dy: lerp(a.dy || 0, b.dy || 0, k), bend: k < 0.5 ? a.bend : b.bend, elbowL: eb('L'), elbowR: eb('R') });
 };
 // ---- 시간 곡선 ----
 // 예비 동작 + 오버슈트: t0에 시작(예비 antic초 전부터), dur 동안 주 동작, 끝나면 over만큼 지나쳤다가 안착

diff --git a/zw/표정_물리검토_v1.md b/zw/표정_물리검토_v1.md
@@ -225,3 +225,65 @@
 - 머리 장식(땀, 입김, 볼, 기호)이 윤곽 밖 허공에 떠 있지 않은지 확인한다.
 - 손 모양은 검은 실루엣으로 봐도 무슨 손인지 알 수 있어야 한다(검지, 엄지, 편 손).
 - 한 장면의 표정이 그 감정 하나로만 읽히는지, 시트를 남(독립 검토)에게 보여 확인한다.
+
+---
+
+## 고친 결과 (2026-11-09, 운영자 "고쳐줘")
+
+영상: `animlab/long/복잡한감정_10종_v2.mp4`, `animlab/long/연기표정_비교_v2.mp4`. 전후 비교: `zw/review/표정검토_전후비교.jpg`.
+
+| # | 고친 방법 | 어디 |
+|---|---|---|
+| 1 | 말하는 상대의 머리·어깨 일부를 오른쪽 화면 끝에 그리고, 말풍선 꼬리가 그쪽을 가리키게 했다. 괜찮은 척·질투·안도에서는 상대가 화면 밖으로 나가, '혼자 남는 순간'이 보인다. | `cxPartner`, `cxSay` |
+| 2 | 팔을 들어도 소매가 머리 뒤로 숨지 않는다(소매 각도를 수평 위 35도까지로 제한, 위치는 어깨 바깥). 팔꿈치는 굽는 방향을 정하지 않으면 머리에서 먼 쪽으로 자동으로 나간다. | `engine.js` 소매, `A2.pose` |
+| 3 | 턱 괴기를 '생각하는 자세'로 바꿨다. 오른 팔꿈치를 배 앞을 가로지른 왼팔 위에 얹는다. 팔꿈치 위치를 직접 정하는 옵션(`elbowL/R`)과 섞기를 추가했다. 이마 닦기는 팔을 늘여도 손이 눈 위를 가리는 '외눈 안경'처럼 보여서, 안도의 몸짓을 '가슴 쓸어내리기'로 바꿨다. 손을 얼굴로 가져가는 다른 동작에는 `reach`(그 팔만 길게)와 `armFront`(앞팔을 머리 앞에)를 쓴다. | act2, cx6, `A2.pose` |
+| 4 | 손 모양 각도를 팔 방향 대신 직접 지정하는 옵션을 추가했다(`handRotL/R`). 흔드는 손은 손가락이 위를 본다. '아니야?'는 허리 높이에서 손바닥을 내미는 동작으로 바꿨다(흔드는 손과 구분). 편 손은 손가락을 둥글게 두르지 않고 나란히 붙여, 꽃처럼 보이지 않게 했다. 으쓱은 팔꿈치를 몸 옆에 두고 손바닥이 바깥을 보게 했다. | `engine.js` `handShape`, act1 |
+| 5 | 볼 부풀림을 절반 크기로 줄여 눈 바로 아래 높이에 두었다. 고개를 돌려도 밀리지 않는 '머리 윤곽 층'에 그리고, 윤곽선은 닫힌 선으로 그린다. 고개를 돌리면 바라보는 쪽 볼이 더 불룩하다. | `ACT.cheekPuff`, 엔진 `fxHead` |
+| 6 | 한숨 입김은 입에서 나와 얼굴 아래 바깥으로 빠지며 "후~" 글자가 붙는다. 코웃음은 얼굴 밖에 짧은 선 두 줄과 바로 선 "흥"/"훗" 글자만 쓴다. 볼 위에 그린 선은 흉터처럼 보여서 뺐다. | `ACT.sym('sigh' / 'huff' / 'hut')` |
+| 7 | 팔짱을 막대 인물식 X자로 바꿨다. 팔꿈치는 옆으로 나오고, 손끝이 반대쪽 위팔 쪽에 살짝 보인다(손이 없으면 'X 표시'처럼 보였다). | `crossArms` |
+| 8 | 부끄러움 자세: 두 손은 가슴 앞에서 꼼지락거리고, 다리는 교차하지 않으며 한쪽 발끝만 비빈다. | `ACT.attitude('shy')` |
+| 9 | 하이라이트를 눈 모양 안으로 잘라 그린다. 가는 초승달 눈에는 넣지 않는다. | `ACT.eyes` |
+| 10 | 꽉 감은 눈을 '> <'(꼭짓점이 코 쪽)로 바꿨다. | `ACT.eyes` |
+| 11 | 입술 깨물기: 윗니가 아랫입술 선 '위'에 얹히는 모양으로 바꿨다. | `ACT.mouth` |
+| 12 | 토라짐 입은 'ヘ'자로 바꿨다. '3'자 입은 `kiss`로 이름을 바꿔 뽀뽀·휘파람에만 쓴다. | `ACT.mouth` |
+| 13 | 검지는 가늘고 길게, 접힌 손가락 선을 넣었다. 엄지 척은 가로 주먹 위에 굵은 엄지를 올렸다. | `handShape` |
+| 14 | 쥔 손과 주먹의 줄무늬를 한 줄로 줄였다. 폰 장면의 검지 끝은 전송 버튼 앞 6px에서 멈춘다(누르지 않음). | `handShape`, cx5 |
+| 15 | 미간 주름 선을 뺐다(눈썹 모양만으로 찌푸림). | `ACT.face` |
+| 16 | 숨을 쉴 때 몸 전체 크기를 바꾸지 않는다. 머리와 손 높이만 오르내린다. 시무룩 자세도 납작하게 만들지 않는다. | cx1·cx6·cx7, `attitude('sad')` |
+| 17 | 집중선과 '!'를 머리 윤곽 층으로 옮겨, 고개를 돌려도 머리를 뚫지 않는다. 점프 높이는 80에서 60으로 낮췄다. | act4, act2 |
+| 18 | 무거운 눈꺼풀을 흰 덮개 대신 눈 모양 잘라 내기(clip)로 바꿨다. 눈썹은 잘리지 않는다. | `ACT.eyes` |
+| 19 | 땀방울을 머리 안쪽 관자놀이에 두고, 피부를 따라 흘러내리게 했다. | `ACT.sym('sweat')` |
+| 20 | 눈물은 아래 눈꺼풀에서 시작하고, 얼굴 밖(셔츠 위)으로는 떨어지지 않는다. 셔츠에 얼룩처럼 남았기 때문이다. | `ACT.face` |
+| 21 | 괜찮은 척: 눈은 웃지 않고(아래 눈꺼풀 그대로, 촉촉), 눈썹은 걱정 그대로 두며, 입꼬리는 계속 파르르 떨린다. 웃기 직전에 침을 꿀꺽 삼킨다. | cx1 |
+| 22 | 짧은 반응의 폭을 키웠다: 눈 22~24%, 눈썹 10~12px, 머리가 뒤로 움찔. | cx4·cx8·act1·act4 |
+| 23 | 흘끗할 때는 고개가 반쯤 돌아오고 눈이 커진다. "흥"은 고개를 크게 휙 돌리며 콧바람을 낸다. | cx4 |
+| 24 | 짝입꼬리 차이를 키우고(+6/-2.5), 입을 그쪽으로 옮긴다. | cx2·cx7·cx10 |
+| 25 | 체념: 눈썹은 걱정 모양을 유지하고, 시선은 끝까지 아래, 미소는 아주 작게 한다. | cx7 |
+| 26 | 어이없음의 눈썹 씰룩을 13px로 키우고 머리 기울임을 더했다. | cx10 |
+| 27 | 깜짝 장면 끝: 우울선을 빼고, 이를 보이는 어색한 웃음과 땀으로 바꿨다. | act4 |
+| 28 | 칭찬받는 장면은 무표정(입꼬리 0, 볼 옅게)에서 시작한다. | act3 |
+| 29 | 망설임: 손이 나갈 때 눈이 커지고, 물러날 때 눈을 꽉 감는다. 걱정 눈썹을 짓고, 손가락 떨림을 ±5로 키웠다. | cx5 |
+| 30 | 생각 풍선은 머리 왼쪽 옆, 글자 아래에 둔다. 꼬리 원은 머리 쪽을 향하고, 노란 원(계란 프라이처럼 보임) 대신 별을 넣었다. | cx9, `memory` |
+| 31 | 클로즈업 인물을 60 올려 손이 화면 아래에서 잘리지 않게 했다. | `CX.Y` |
+| 32 | 가운데 점선을 제목·자막 높이와 겹치지 않게 줄이고, 하트를 오른쪽 인물의 볼 옆으로 옮겼다. 말하는 사람이 화면에 없는 말풍선은 "친구: 최고야!"처럼 화자를 적었다. | `acBg`, act3 |
+
+그 밖: 기호가 끝날 때 옅어지며 사라진다(점처럼 남지 않게). 전구 필라멘트를 찡그린 입처럼 보이지 않는 지그재그로 바꿨다.
+
+**두 번째 검토에서 더 고친 것**
+
+같은 독립 검토자에게 고친 장면 54칸을 다시 보였다.
+- 그 결과로 더 고친 것:
+  - 팔꿈치 자동 방향을 '몸 바깥쪽 우선'으로 바꿨다. 허리에 손을 얹으면 팔이 가슴 안으로 꺾이던 문제를 고쳤다.
+  - 포즈를 섞을 때 굽는 방향이 다음 포즈 것으로 미리 바뀌던 버그를 고쳤다. 체념 장면의 팔 지그재그가 이 때문이었다.
+  - 생각 점이 라벨을 가리지 않게 옮겼다.
+  - 감동 장면의 하트를 라벨에서 떼어 놓았다.
+  - 깨달음 장면의 집중선이 세운 손가락을 가로지르지 않게 했다(집중선에 빈 각도 옵션 추가).
+  - 깜짝 장면의 머리 늘어남을 더 작고 짧게 했다.
+  - 멈칫은 일자 입으로 바꿨다.
+  - 망설임은 첫 번째 손 내밀기를 더 멀리서 멈추게 해서, 두 번째가 더 가까이 가는 것이 보이게 했다.
+  - 서운함은 슬픔이 아니라 토라짐으로 읽히게 했다(무거운 눈꺼풀, 화난 눈썹 조금, 볼 부풀림). 흘끗할 때는 고개를 반쯤 돌린다.
+- 남은 작은 것:
+  - 입술 깨물기가 '이를 드러냄'으로도 읽힌다.
+  - 옛 이름 포즈(`P['만세']`, `P['턱괴기']`)는 여전히 손이 머리 옆에 붙는다. 이 둘은 이미 올린 편들이 쓰므로 그대로 두었다.
+  - 새 편에서는 이 둘 대신 `A2.pose`를 쓴다.
+- 엔진의 소매 규칙이 바뀌었다. 팔을 든 옛 편을 다시 렌더하면 소매가 어깨 바깥에 보인다(좋아지는 방향).

diff --git a/HANDOFF.md b/HANDOFF.md
@@ -6,6 +6,7 @@
 
 **지금 진행 중 (2026-11-06 기준, 새 대화는 여기서 이어서):**
 - **연출 기준 v3 기획(2026-11-07)** `zw/PLAN_v3_연출.md`: 귀여움·표정 23종(`zw/face2.js`, 표정 시트 `zw/out/`), 연기 원칙, 만화 기호+효과음, 비트 시트 양식. 엔진에 표정 효과 층(fxUnder/fxEye/fx) 추가. **운영자 결정 대기**(10절). 다음: 30초 비교 테스트(A형 등장).
+- **표정·연기 고침 v2(2026-11-09, 운영자 "고쳐줘")** 32개 전부 반영 + 독립 재검토 두 번: `animlab/long/복잡한감정_10종_v2.mp4`, `animlab/long/연기표정_비교_v2.mp4`, 전후 `zw/review/표정검토_전후비교.jpg`, 내역은 `zw/표정_물리검토_v1.md` 끝 '고친 결과'. 엔진: 소매가 팔을 따라 돎(들어도 머리 뒤로 안 숨음)·`handRotL/R`·`armFront`·`crossArms`·`fxHead`(머리 윤곽 층)·손 모양 새로. anim2: 팔꿈치 자동 '몸 바깥쪽'·`elbowL/R`·`reach`, blend 굽힘 버그. act2: 눈 clip(하이라이트·무거운 눈꺼풀)·`> <`·깨물기·`ヘ` 입·볼 부풀림(머리 층, 작게)·입김/`huff`/`hut`·땀·눈물(얼굴 안)·집중선 빈 각도. 장면: 말하는 상대를 오른쪽 끝에 그리고 꼬리가 그쪽(`cxPartner`/`cxSay`), 이마 닦기→가슴 쓸어내리기, 턱 괴기→🤔 자세, 반응 폭 키움. 남은 것: 깨물기 모양, 옛 `P['만세']`·`P['턱괴기']`(새 편은 A2.pose로).
 - **표정·연기 물리 검토(2026-11-09, 운영자 "물리적으로 이해가 안 되는 표정이 많다, 개선점 리스트로")** `zw/표정_물리검토_v1.md` + 예시 `zw/review/표정검토_문제예시.jpg`: 독립 검토(63칸) + 리그 확대 시험으로 32개. 큰 것: ①상대 말풍선 꼬리가 제로를 가리킴(대사 주인이 뒤바뀜) ②팔을 들면 소매가 사라지고 팔이 머리 밑에서 나옴 ③손이 얼굴에 안 닿음(머리 큼·팔 짧음) ④편 손이 발톱처럼 아래로 ⑤볼 부풀림이 혹, 고개 돌리면 떨어져 뜸 ⑥입김이 볼 외곽선에 붙음 ⑦팔짱=수갑 ⑧부끄러움 자세=화장실 급함. 근본 원인 3개(체형·머리 장식 층·감정 폭이 작음)와 점검 규칙 5개. 아직 고치지 않음 — 운영자 확인 대기.
 - **복잡한 감정 10종(2026-11-08, 운영자 "다른 복잡한 감정에 대해서도 추가")** `zw/ACT_개선안_v1.md` 7절: 갤러리 영상 `animlab/long/복잡한감정_10종_v1.mp4`(44초) — 괜찮은 척·씁쓸함·질투·서운함·망설임·안도·체념·감동·그리움·어이없음. 원칙: 입=겉 감정, 눈·눈썹=속 감정, 겉 감정이 무너지는 0.5~1초를 꼭 보여 준다. `act2.js`에 짝입꼬리·입술 떨림·깨물기·삐죽·볼 부풀림·무거운 눈꺼풀·멍한 눈·미간·눈물·한숨 곡선·기호(입김·먹구름·추억·핏대) 추가. 장면 `animlab/long/cxscenes.js`(편별 쓸 곳은 문서 표). 운영자 피드백 대기.
 - **연기·표정 개선(2026-11-08, 운영자 "연기나 표현기법도 더 세련되고 귀엽게 좀 더 디테일하게")** `zw/ACT_개선안_v1.md`: 비교 영상 `animlab/long/연기표정_비교_v1.mp4`(33초, ①번에 수능 편 z1 소리: ①모음 립싱크+끄덕·갸웃 ②시선 휙·생각→깨달음 팡 ③표정이 눈썹→눈→입→볼 순서로 번짐 ④두 번 보기 깜짝 ⑤감정 몸짓 부끄러움·시무룩·신남). 새 도구 `shorts/act2.js`(`ACT.face`·`ACT.eyes`(웃는 아래 눈꺼풀·> <·반짝·촉촉)·`ACT.lipTrack`/`ACT.lip`(음절 모음 → 입 모양, 소리 구간에 맞춤)·`ACT.saccade`·`ACT.pop`·`ACT.sym`·`ACT.attitude`), `engine.js`에 `headSq`·`headDy`, `anim2.js` 무릎 기본 바깥쪽·blend가 굽는 방향 유지. 실험실 `animlab/long/act_lab.html`+`actscenes.js`+`gen_act_tl.py`(amp 10ms를 타임라인에 넣는 방식 — 편별 gen_tl.py에도 추가 필요). 운영자 피드백 대기.
